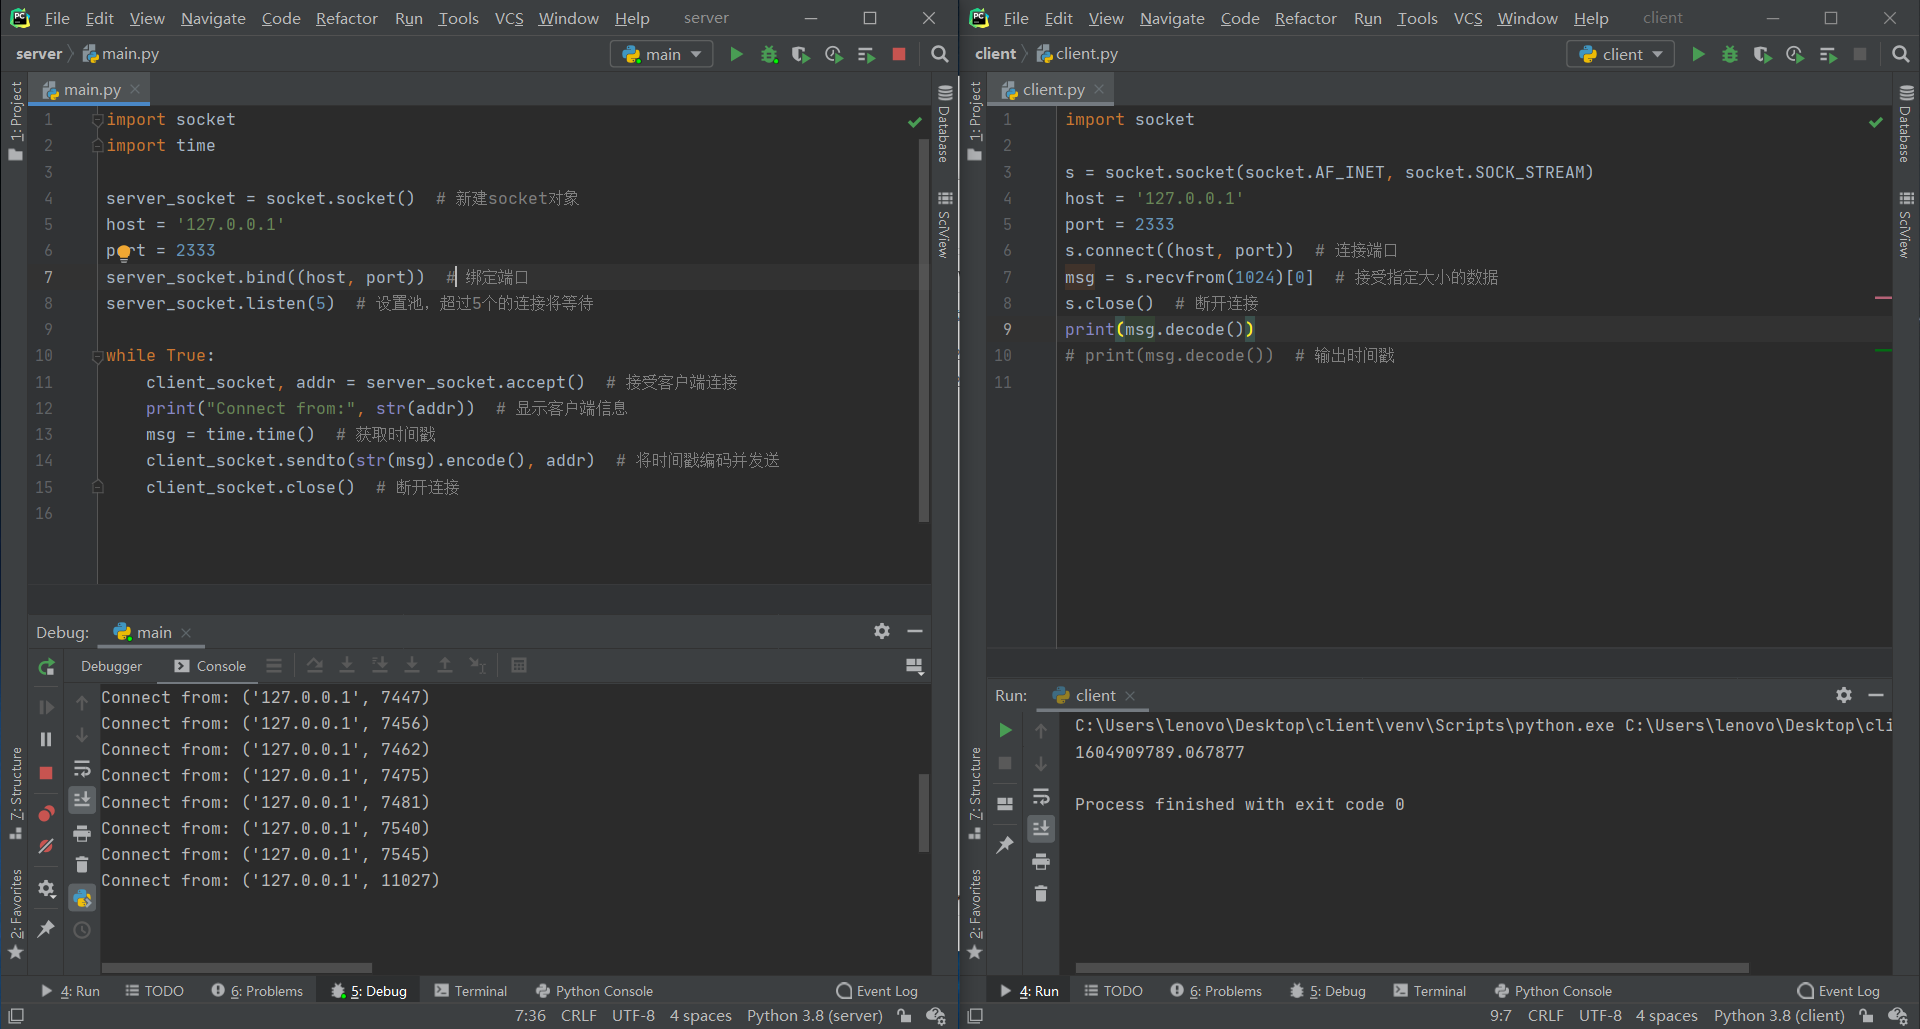
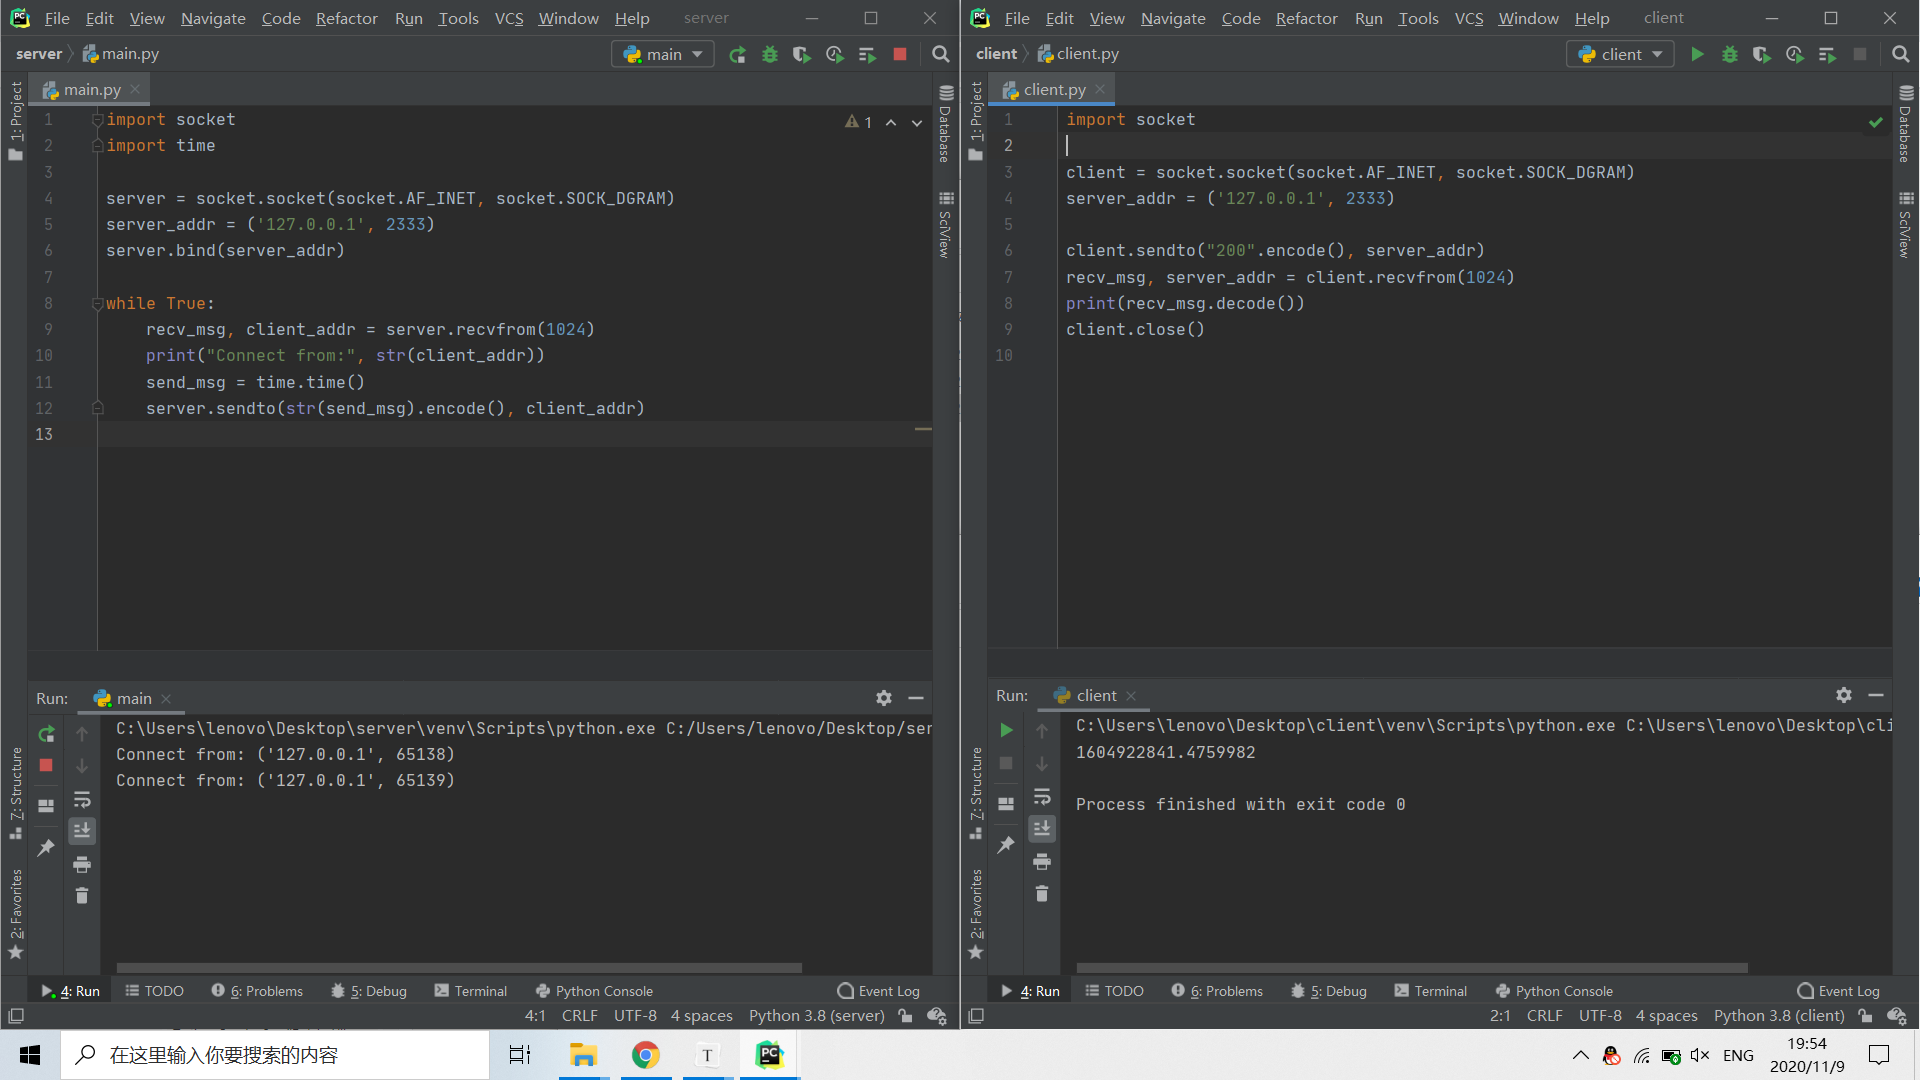
rewrote wrong codes

diff --git a/SRE/4 Python/lv2/server.py b/SRE/4 Python/lv2/server.py
@@ -1,15 +1,12 @@
 import socket
 import time
 
-server_socket = socket.socket()  # 新建socket对象
-host = '127.0.0.1'
-port = 2333
-server_socket.bind((host, port))  # 绑定端口
-server_socket.listen(5)  # 设置池，超过5个的连接将等待
+server = socket.socket(socket.AF_INET, socket.SOCK_DGRAM)
+server_addr = ('127.0.0.1', 2333)
+server.bind(server_addr)
 
 while True:
-    client_socket, addr = server_socket.accept()  # 接受客户端连接
-    print("Connect from:", str(addr))  # 显示客户端信息
-    msg = time.time()  # 获取时间戳
-    client_socket.sendto(str(msg).encode(), addr)  # 将时间戳编码并发送
-    client_socket.close()  # 断开连接
+    recv_msg, client_addr = server.recvfrom(1024)
+    print("Connect from:", str(client_addr))
+    send_msg = time.time()
+    server.sendto(str(send_msg).encode(), client_addr)

diff --git a/SRE/4 Python/lv2/client.py b/SRE/4 Python/lv2/client.py
@@ -1,10 +1,9 @@
 import socket
 
-s = socket.socket(socket.AF_INET, socket.SOCK_STREAM)
-host = '127.0.0.1'
-port = 2333
-s.connect((host, port))  # 连接端口
-msg = s.recvfrom(1024)[0]  # 接受指定大小的数据
-s.close()  # 断开连接
-print(msg.decode())
-# print(msg.decode())  # 输出时间戳
+client = socket.socket(socket.AF_INET, socket.SOCK_DGRAM)
+server_addr = ('127.0.0.1', 2333)
+
+client.sendto("200".encode(), server_addr)
+recv_msg, server_addr = client.recvfrom(1024)
+print(recv_msg.decode())
+client.close()
